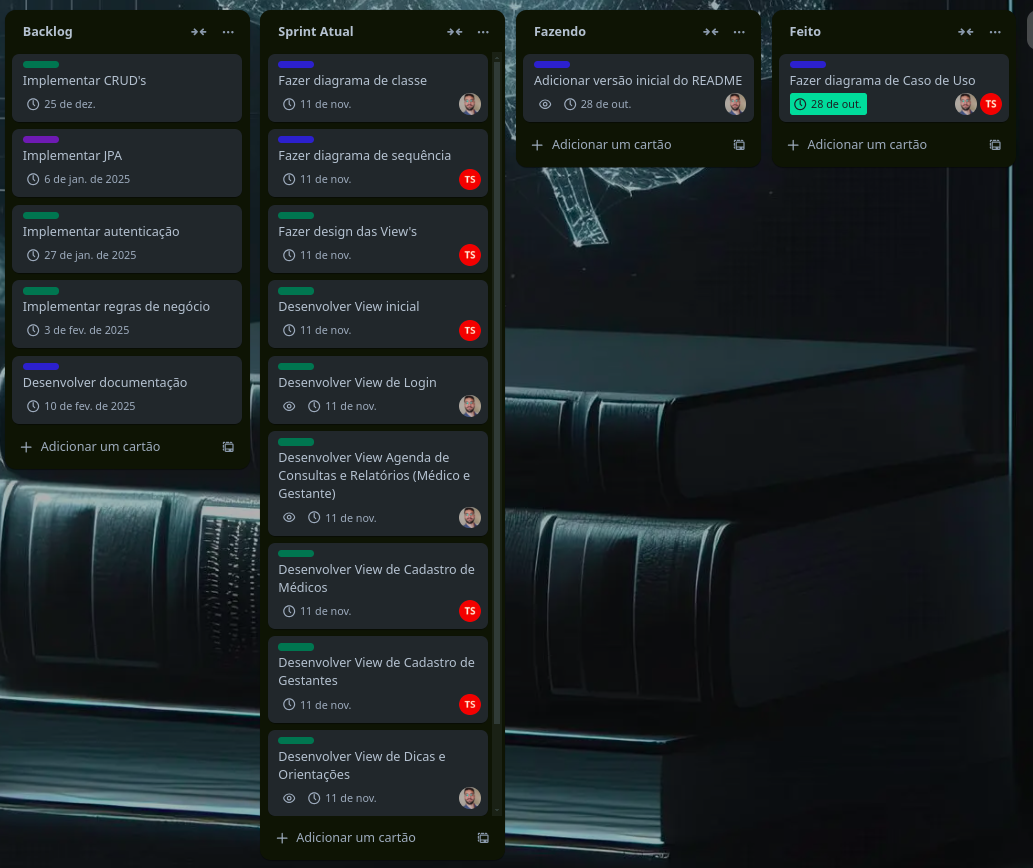
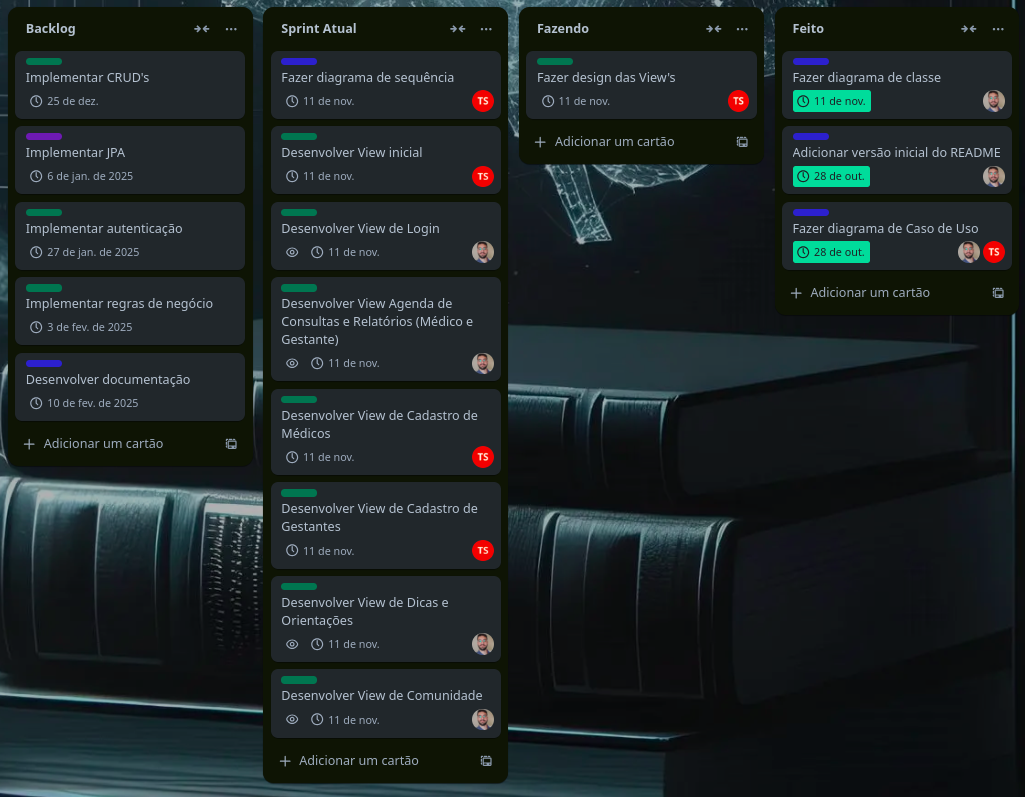
docs: Atualizar quadro scrum (Sprint 2)

diff --git a/README.md b/README.md
@@ -23,7 +23,7 @@ Além disso, o BemGestar oferece uma comunidade de apoio, onde as gestantes pode
 O desenvolvimento do BemGestar segue a metodologia ágil Scrum, permitindo um gerenciamento eficiente do projeto através de sprints, priorização de tarefas e acompanhamento contínuo do progresso. O quadro de tarefas está organizado no Trello, onde é possível visualizar o backlog, as sprints em andamento e as tarefas concluídas. Essa abordagem garante uma entrega incremental e adaptável, focada na evolução contínua do sistema.
 
 ![Quadro Scrum](./docs/quadroScrum.png)
-*Atualizado em 24/11/2024
+*Atualizado em 25/10/2024
 
 ### Diagrama de Casos de Uso
 
